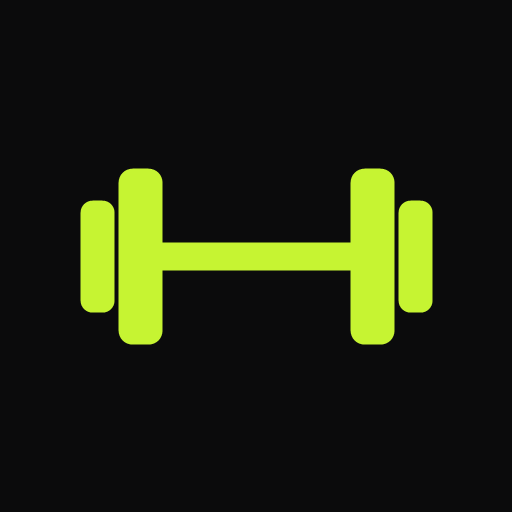
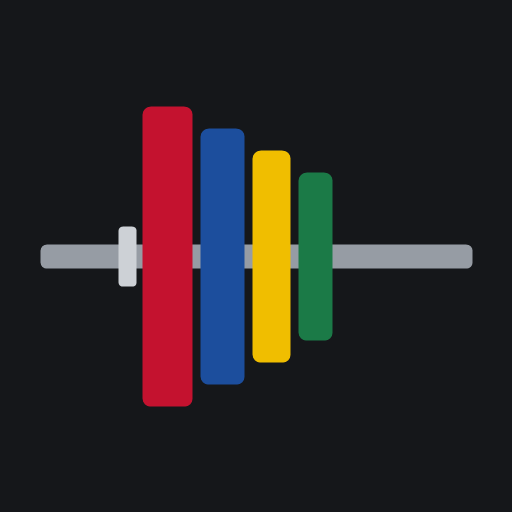
Add files via upload

Changed region(s): [[0.0625, 0.1875, 0.9375, 0.8125]]

diff --git a/index.html b/index.html
@@ -2,78 +2,111 @@
 <html lang="tr"><head><meta charset="utf-8">
 <meta name="viewport" content="width=device-width, initial-scale=1, viewport-fit=cover">
 <title>Antrenman Takip</title>
-<link rel="manifest" href="manifest.webmanifest?v=2">
-<link rel="apple-touch-icon" sizes="180x180" href="apple-touch-icon.png?v=2">
-<link rel="icon" type="image/png" sizes="192x192" href="icon-192.png?v=2">
+<link rel="manifest" href="manifest.webmanifest?v=3">
+<link rel="apple-touch-icon" sizes="180x180" href="apple-touch-icon.png?v=3">
+<link rel="icon" type="image/png" sizes="192x192" href="icon-192.png?v=3">
 <meta name="apple-mobile-web-app-capable" content="yes">
 <meta name="mobile-web-app-capable" content="yes">
 <meta name="apple-mobile-web-app-title" content="Antrenman">
 <meta name="apple-mobile-web-app-status-bar-style" content="default">
-<meta name="theme-color" content="#f4f4f1" media="(prefers-color-scheme: light)">
-<meta name="theme-color" content="#0b0b0c" media="(prefers-color-scheme: dark)">
-<link href="https://fonts.googleapis.com/css2?family=Geist:wght@400;500;600;700&family=Geist+Mono:wght@500;600&display=swap" rel="stylesheet">
+<meta name="theme-color" content="#E9EAEC" media="(prefers-color-scheme: light)">
+<meta name="theme-color" content="#111315" media="(prefers-color-scheme: dark)">
+<link href="https://fonts.googleapis.com/css2?family=Archivo:wdth,wght@62..125,400..900&display=swap" rel="stylesheet">
 <style>
-:root{--bg:#f4f4f1;--fg:#111113;--card:#fff;--soft:#ecece7;--mut:#6e6e75;--bd:#e3e3dd;--acc:#c6f432;--onacc:#111113;--accfg:#4a7a00;box-sizing:border-box;padding-top:env(safe-area-inset-top,0px);padding-bottom:env(safe-area-inset-bottom,0px)}
-@media (prefers-color-scheme:dark){:root:not([data-theme="light"]){--bg:#0b0b0c;--fg:#f2f2ee;--card:#161618;--soft:#1f1f22;--mut:#8d8d94;--bd:#28282c;--acc:#c6f432;--onacc:#0b0b0c;--accfg:#c6f432;color-scheme:dark}}
-:root[data-theme="dark"]{--bg:#0b0b0c;--fg:#f2f2ee;--card:#161618;--soft:#1f1f22;--mut:#8d8d94;--bd:#28282c;--acc:#c6f432;--onacc:#0b0b0c;--accfg:#c6f432;color-scheme:dark}
-*{box-sizing:border-box}html{scroll-padding-top:env(safe-area-inset-top,0px)}
-body{margin:0;background:var(--bg);color:var(--fg);font:14px/1.45 "Geist",system-ui,-apple-system,"Segoe UI",sans-serif;-webkit-font-smoothing:antialiased}
-button{font-family:inherit;-webkit-tap-highlight-color:transparent;touch-action:manipulation}
-#app{max-width:460px;margin:0 auto;padding:14px 16px 28px}
-h1{font-size:24px;font-weight:700;letter-spacing:-.025em;margin:0;line-height:1.15}
-h2{font-size:20px;font-weight:650;letter-spacing:-.02em;margin:10px 0 2px;line-height:1.2}
-.top h2{margin:0}
-.eyebrow{font-size:11px;text-transform:uppercase;letter-spacing:.08em;color:var(--mut);font-weight:600}
-.sec{margin:16px 0 6px}
-.mut{color:var(--mut);margin:2px 0}.lbl{display:block;font-size:12px;color:var(--mut);font-weight:500;margin:12px 0 4px}
-.tabs,.week{display:grid;grid-template-columns:repeat(7,1fr);gap:4px}
-.tab,.wd{background:var(--card);color:var(--fg);border:1px solid var(--bd);border-radius:8px;padding:6px 0;font-size:13px;font-weight:600;cursor:pointer;min-width:0}
-.tab small,.wd small{display:block;font-size:9.5px;color:var(--mut);font-weight:500;overflow:hidden;white-space:nowrap;text-overflow:ellipsis;padding:0 2px}
-.tab.on{background:var(--acc);border-color:var(--acc);color:var(--onacc)}.tab.on small{color:var(--onacc)}
-.wd.today{border-color:var(--accfg);box-shadow:inset 0 0 0 1px var(--accfg)}.wd.off{background:var(--soft);border-color:transparent}
-select,input{width:100%;background:var(--card);color:var(--fg);border:1px solid var(--bd);border-radius:8px;padding:8px 10px;font:inherit;font-size:16px}
-.wsel{width:auto;padding:5px 8px;font-weight:600}
-input:focus-visible,select:focus-visible,button:focus-visible{outline:2px solid var(--accfg);outline-offset:2px}
-.card{background:var(--card);border:1px solid var(--bd);border-radius:12px;padding:2px 12px;margin:10px 0}
-.row{display:flex;justify-content:space-between;gap:10px;align-items:center;padding:7px 0;border-bottom:1px solid var(--bd)}.row:last-child{border:0}
-.row span{color:var(--mut);font-size:12.5px;text-align:right;white-space:nowrap}
-.fc{display:block;font-size:12px;color:var(--mut);margin-top:1px}
-.btn{display:block;width:100%;background:var(--acc);color:var(--onacc);border:0;border-radius:10px;padding:11px;font-size:15px;font-weight:600;margin:8px 0;cursor:pointer}
-.btn.ghost,.ghost{background:var(--card);color:var(--fg);border:1px solid var(--bd)}
-.sm{padding:5px 10px;font-size:13px;border-radius:8px;width:auto;margin:0;font-weight:600;cursor:pointer}
-.top{display:flex;justify-content:space-between;align-items:center;gap:10px}
-.bar{height:4px;background:var(--soft);border-radius:2px;margin:10px 0}.bar i{display:block;height:100%;background:var(--acc);border-radius:2px}
-.note{background:var(--card);border:1px solid var(--bd);border-left:3px solid var(--accfg);padding:7px 10px;font-size:13px;color:var(--mut);border-radius:0 8px 8px 0;margin:8px 0}
-.note b{color:var(--fg)}
-.hero{background:var(--card);border:1px solid var(--bd);border-radius:14px;padding:14px;margin:12px 0}
-.hero h2{font-size:26px;margin:4px 0 2px}
-.stats{display:flex;gap:18px;margin:8px 0 6px}.stats b{display:block;font:600 17px "Geist Mono",ui-monospace,monospace}.stats small{color:var(--mut);font-size:11px}
-.grid2,.two{display:grid;grid-template-columns:1fr 1fr;gap:8px}.two{margin-top:12px}
-.grid2 .btn{margin:0}
-.two label,.g3 label{font-size:12px;color:var(--mut)}
-.two input{font:600 26px "Geist Mono",ui-monospace,monospace;text-align:center;margin-top:4px;padding:8px}
-.rest{text-align:center;padding-top:16px}.big{font:600 88px/1 "Geist Mono",ui-monospace,monospace;letter-spacing:-.04em;color:var(--accfg);margin:4px 0 10px}
-.chk{font-size:13px;color:var(--mut)}input[type=checkbox]{width:auto;margin-right:6px}
-.clk{font-family:"Geist Mono",ui-monospace,monospace;color:var(--fg);font-weight:600}
-.alts{display:flex;flex-wrap:wrap;gap:4px;margin:6px 0 2px}
-.chip{background:var(--soft);color:var(--fg);border:1px solid var(--bd);border-radius:99px;padding:2px 9px;font-size:11.5px;font-weight:500;cursor:pointer;line-height:1.5}
-.chip.on{background:var(--acc);border-color:var(--acc);color:var(--onacc);font-weight:600}
-.btn.sub{padding:9px;font-size:14px}
-.li{display:flex;justify-content:space-between;align-items:center;width:100%;background:none;border:0;border-bottom:1px solid var(--bd);padding:10px 0;font-size:14px;color:var(--fg);text-align:left;cursor:pointer}.li:last-child{border:0}
-.inl{display:flex;gap:8px;align-items:center}.inl .btn{width:auto;margin:0;padding:9px 16px;white-space:nowrap}
-.splash{min-height:calc(100vh - 42px);min-height:calc(100svh - 42px - env(safe-area-inset-top,0px) - env(safe-area-inset-bottom,0px));display:flex;flex-direction:column;justify-content:space-between;touch-action:none;user-select:none;-webkit-user-select:none}
-.sp-mid{text-align:center;padding-top:12vh}.sp-mid svg{width:96px;height:96px;border-radius:22px;box-shadow:0 0 0 1px var(--bd),0 10px 30px rgba(0,0,0,.18)}
-.sp-t{font-size:36px;margin:18px 0 2px}.sp-sub{font-size:15px;margin:14px 0 4px}
-.track{position:relative;height:58px;border-radius:99px;background:var(--card);border:1px solid var(--bd);margin-bottom:10px}
-.tl{position:absolute;inset:0;display:grid;place-items:center;color:var(--mut);font-size:14px;font-weight:500;pointer-events:none;transition:opacity .15s}
-.knob{position:absolute;left:4px;top:4px;width:48px;height:48px;border-radius:50%;border:0;background:var(--acc);color:var(--onacc);font-size:20px;font-weight:700;display:grid;place-items:center;cursor:grab;touch-action:none;transition:transform .25s ease}
-.knob span{display:block;animation:nudge 1.6s ease-in-out infinite}
-.sp-hint{text-align:center;font-size:11px;color:var(--mut);margin:0 0 6px}
-@keyframes nudge{0%,100%{transform:translateX(0)}50%{transform:translateX(5px)}}
-@keyframes enterIn{from{opacity:0;transform:translateY(14px)}to{opacity:1;transform:none}}
-#app.in{animation:enterIn .35s ease}
-@media (prefers-reduced-motion:reduce){.knob span,#app.in{animation:none}}
-.ex{padding:8px 0;border-bottom:1px solid var(--bd)}.g3{display:grid;grid-template-columns:1fr 1fr 1fr;gap:6px;margin:6px 0}
+/* Renkler olimpik ağırlık plakalarından: her antrenman günü bir plaka rengi taşır (Upper kırmızı, Lower mavi, Push sarı, Pull yeşil).
+   Nötrler beton/çelik grisi. Tek font ailesi Archivo: normal genişlik metin, dar genişlik başlık ve sayılar. */
+:root{--bg:#E9EAEC;--sf:#FFFFFF;--ink:#15171A;--mut:#596069;--line:#D3D6DB;--pri:#15171A;--onpri:#FFFFFF;--err:#B00F2A;
+--red:#C4122F;--blue:#1C4E9D;--yel:#F0BE00;--grn:#1B7A47;--rest:#6B727C;
+--f:"Archivo",system-ui,-apple-system,"Segoe UI",sans-serif;
+box-sizing:border-box;padding-top:env(safe-area-inset-top,0px);padding-bottom:env(safe-area-inset-bottom,0px)}
+@media (prefers-color-scheme:dark){:root:not([data-theme="light"]){--bg:#111315;--sf:#1B1E22;--ink:#ECEEF0;--mut:#A3AAB3;--line:#30353B;--pri:#ECEEF0;--onpri:#111315;--err:#FF7A7A;--rest:#4A5058;color-scheme:dark}}
+:root[data-theme="dark"]{--bg:#111315;--sf:#1B1E22;--ink:#ECEEF0;--mut:#A3AAB3;--line:#30353B;--pri:#ECEEF0;--onpri:#111315;--err:#FF7A7A;--rest:#4A5058;color-scheme:dark}
+*{box-sizing:border-box}
+body{margin:0;background:var(--bg);color:var(--ink);font:15px/1.45 var(--f);-webkit-font-smoothing:antialiased;font-variant-numeric:tabular-nums}
+button,input,select{font-family:inherit}
+button{-webkit-tap-highlight-color:transparent;touch-action:manipulation;cursor:pointer}
+#app{max-width:480px;margin:0 auto;padding:10px 16px 36px}
+.p-red{--pc:var(--red);--po:#fff;--pl:rgba(255,255,255,.3)}.p-blue{--pc:var(--blue);--po:#fff;--pl:rgba(255,255,255,.3)}
+.p-yel{--pc:var(--yel);--po:#15171A;--pl:rgba(0,0,0,.16)}.p-grn{--pc:var(--grn);--po:#fff;--pl:rgba(255,255,255,.3)}.p-rest{--pc:var(--rest);--po:#fff;--pl:rgba(255,255,255,.3)}
+.pt,.xt,.wn,.timer,.brand,.sp-w,.kv b,.two input,.clk,.rn{font-stretch:70%;font-weight:800}
+.pt{font-size:42px;line-height:.95;margin:8px 0 14px}
+.xt{font-size:40px;line-height:.95;margin:18px 0 6px}
+.hd{display:flex;justify-content:space-between;align-items:center;gap:12px}
+.date{font-weight:700;font-size:16px}
+.wsel{width:auto;border:0;background:transparent;font-weight:700;font-size:16px;padding:6px 0;color:var(--ink)}
+select,input{width:100%;background:var(--sf);color:var(--ink);border:1.5px solid var(--line);border-radius:6px;padding:10px 12px;font-size:16px}
+input:focus,select:focus{outline:none;border-color:var(--ink)}
+button:focus-visible{outline:2px solid var(--ink);outline-offset:2px}
+.wks{display:grid;grid-template-columns:repeat(12,1fr);gap:3px;margin:8px 0 5px}.wks span{height:6px;background:var(--line);border-radius:1px}.wks .d{background:var(--mut)}.wks .c{background:var(--ink)}
+.wkn{font-size:13px;color:var(--mut);margin:0}
+.lab{display:block;font-size:13px;font-weight:700;color:var(--mut);margin:24px 0 8px}
+.hd.lab{display:flex;margin-bottom:4px}
+.mut{color:var(--mut)}
+.msg{background:var(--ink);color:var(--bg);border-radius:6px;padding:10px 12px;font-size:14px;margin:14px 0 0}
+.plate{background:var(--pc);color:var(--po);border-radius:6px;padding:14px 16px 16px}
+.plate .wn{font-size:64px;line-height:.88;margin:0 0 12px}
+.pl{list-style:none;margin:0;padding:0;font-size:14px}.pl li{display:flex;justify-content:space-between;gap:12px;padding:5px 0;border-top:1px solid var(--pl)}.pl li span:last-child{white-space:nowrap;font-weight:700}
+.pm{margin:10px 0 14px;font-size:14px}
+.pa{display:flex;align-items:center;gap:20px}
+.pbtn{background:var(--po);color:var(--pc);border:0;border-radius:6px;padding:13px 30px;font-weight:800;font-size:16px}
+.lnk{background:none;border:0;padding:8px 0;color:var(--ink);font-weight:700;font-size:15px;text-decoration:underline;text-decoration-thickness:1.5px;text-underline-offset:3px}
+.plate .lnk{color:var(--po)}
+.lnk.back{text-decoration:none}.lnk.danger{color:var(--err)}
+.wk{display:grid;grid-template-columns:repeat(7,1fr);gap:5px}
+.wk button{background:none;border:0;padding:4px 0;text-align:left;color:var(--ink);min-width:0}
+.wk b{font-size:13px;font-weight:700;padding:1px 3px;margin-left:-3px;border-radius:3px}
+.wk .td b{text-decoration:underline;text-decoration-thickness:2px;text-underline-offset:3px}
+.wk .on b{background:var(--ink);color:var(--bg);text-decoration:none}
+.wk i{display:block;height:8px;border-radius:2px;background:var(--pc);margin:5px 0 4px}
+.wk i.off{height:2px;background:var(--line);margin:8px 0 5px}
+.wk small{display:block;font-size:11px;color:var(--mut);overflow:hidden;white-space:nowrap;text-overflow:ellipsis}
+.list{background:var(--sf);border-radius:6px;padding:0 14px}
+.row{display:flex;justify-content:space-between;gap:12px;align-items:center;padding:11px 0;border-bottom:1px solid var(--line)}.row:last-child{border-bottom:0}.row.at{align-items:flex-start}
+.grow{flex:1;min-width:0}
+.v{color:var(--mut);font-size:13px;text-align:right;white-space:nowrap}.v .n{color:var(--ink);font-size:14px}
+.sub{display:block;font-size:13px;color:var(--mut);margin-top:2px}
+.tag{font-size:12px;font-weight:600;color:var(--mut);margin-left:6px}
+.li{display:flex;justify-content:space-between;align-items:center;width:100%;background:none;border:0;border-bottom:1px solid var(--line);padding:13px 0;font-size:15px;color:var(--ink);text-align:left}.li:last-child{border-bottom:0}
+.chev{color:var(--mut);font-size:20px;line-height:1}
+.btn{display:block;width:100%;border:0;border-radius:6px;padding:15px;font-size:16px;font-weight:800;background:var(--pri);color:var(--onpri);margin:10px 0}
+.btn.alt{background:transparent;color:var(--ink);box-shadow:inset 0 0 0 1.5px var(--ink)}
+.two{display:grid;grid-template-columns:1fr 1fr;gap:8px}.two .btn{margin:10px 0 0}
+.two label{font-size:13px;font-weight:600;color:var(--mut)}
+.two input{font-size:36px;text-align:center;margin-top:4px;padding:8px}
+.inl{display:flex;gap:8px}.inl .btn{width:auto;margin:0;padding:0 20px}
+.rh{display:grid;grid-template-columns:1fr auto 1fr;align-items:center;gap:8px}.rh .lnk{justify-self:start}
+.clk{font-size:24px;text-align:center}.rn{font-size:24px;justify-self:end}
+.prog{height:4px;background:var(--line);border-radius:2px;margin:6px 0 4px}.prog i{display:block;height:100%;background:var(--pc);border-radius:2px}
+.focus{margin:0;color:var(--mut);font-size:14px}
+.opt{display:flex;flex-wrap:wrap;gap:0 16px;margin:8px 0 0}
+.opt button{background:none;border:0;padding:5px 0;font-size:13px;font-weight:500;color:var(--mut);display:inline-flex;align-items:center;gap:6px;text-align:left}
+.opt button::before{content:"";width:13px;height:13px;border-radius:50%;box-shadow:inset 0 0 0 1.5px currentColor;flex:none}
+.opt .on{color:var(--ink);font-weight:700}.opt .on::before{box-shadow:inset 0 0 0 4.5px var(--ink)}
+.kv{display:flex;gap:28px;margin:16px 0 4px}.kv small{display:block;font-size:12px;font-weight:600;color:var(--mut)}.kv b{font-size:32px;line-height:1}
+.tip{background:var(--sf);border-radius:6px;padding:10px 12px;font-size:14px;margin:10px 0}
+.timer{font-size:132px;line-height:.9;text-align:center;margin:4px 0 12px}
+.rbar{height:8px;background:var(--line);border-radius:2px;overflow:hidden}.rbar i{display:block;height:100%;background:var(--pc);transition:width .25s linear}
+.nx{text-align:center;margin:14px 0 4px}
+.lead{font-size:18px;margin:0 0 14px}
+.hl{display:flex;align-items:center;gap:8px;color:var(--ink);font-size:15px}
+.sq{width:12px;height:12px;border-radius:2px;background:var(--pc);flex:none}
+.ex{padding:12px 0;border-bottom:1px solid var(--line)}
+.g3{display:grid;grid-template-columns:1fr 1fr 1fr;gap:8px;margin:8px 0}.g3 label{font-size:12px;font-weight:600;color:var(--mut)}
+.exa{display:flex;justify-content:space-between;align-items:center;gap:8px}
+.chk{font-size:14px;display:flex;align-items:center;gap:8px}input[type=checkbox]{width:18px;height:18px;margin:0;accent-color:var(--ink)}
+.splash{min-height:calc(100vh - 46px);min-height:calc(100svh - 46px - env(safe-area-inset-top,0px) - env(safe-area-inset-bottom,0px));display:flex;flex-direction:column;gap:16px;touch-action:none;user-select:none;-webkit-user-select:none}
+.sp-top{display:flex;justify-content:space-between;align-items:baseline;gap:12px;padding-top:6px}
+.brand{font-size:26px}
+.sp-plate{flex:1;display:flex;flex-direction:column;justify-content:flex-end;padding:18px 18px 20px}
+.sp-lab{font-weight:700;font-size:15px}
+.sp-w{font-size:clamp(84px,30vw,140px);line-height:.85;margin:6px 0 12px;overflow-wrap:anywhere}
+.sp-m{font-size:15px;margin:0}
+.track{position:relative;height:60px;border-radius:6px;background:var(--sf);box-shadow:inset 0 0 0 1.5px var(--line)}
+.tl{position:absolute;inset:0;display:grid;place-items:center;padding-left:56px;color:var(--mut);font-weight:700;font-size:15px;pointer-events:none}
+.knob{position:absolute;left:5px;top:5px;width:50px;height:50px;border-radius:4px;border:0;background:var(--ink);color:var(--bg);cursor:grab;touch-action:none;transition:transform .25s ease}
+.knob::before{content:"";position:absolute;left:50%;top:50%;width:2px;height:20px;margin:-10px 0 0 -1px;background:currentColor;box-shadow:-6px 0 currentColor,6px 0 currentColor}
+.sp-hint{text-align:center;font-size:13px;color:var(--mut);margin:10px 0 0}
+@media (prefers-reduced-motion:reduce){.knob,.rbar i{transition:none}}
 </style></head><body><div id="app"></div><input type="file" id="impf" accept=".json,application/json" hidden>
 <script>
 const KEY='ulppl_v1',DAYS=['Pzt','Sal','Çar','Per','Cum','Cmt','Paz'],DAYL=['Pazartesi','Salı','Çarşamba','Perşembe','Cuma','Cumartesi','Pazar'];
@@ -128,7 +161,7 @@ const ALT={'Machine Chest Press':['Smith Machine Bench Press','DB Bench Press'],
 'Seated Leg Curl':['Lying Leg Curl','Nordic Ham Curl'],'Hack Squat':['Smith Machine Squat','Leg Press'],'Leg Extension':['Reverse Nordic','Sissy Squat'],'DB Walking Lunge':['Smith Machine Split Squat','DB Reverse Lunge'],'Standing Calf Raise':['Donkey Calf Raise','Leg Press Calf Press'],'Glute Kickback':['45° Hyperextension','Cable Pull-Through'],
 'Pull-Up (Wide Grip)':['Lat Pulldown (Wide Grip)','1-Arm Cable Pulldown'],'Stiff-Leg Deadlift':['DB RDL','Barbell RDL'],'Close-Grip Lat Pulldown':['Close-Grip Pull-Up','Close-Grip Seated Cable Row'],'Chest-Supported Machine Row':['Smith Machine Row','DB Row'],'1-Arm Reverse Pec Deck':['Lying Reverse DB Flye','Reverse Cable Crossover'],'Preacher Hammer Curl':['DB Preacher Curl','DB Hammer Curl'],'Cable Crunch':['Weighted Crunch','Machine Crunch']};
 const nm=e=>{const p=S.pick&&S.pick[e.n];return p&&ALT[e.n]&&ALT[e.n].includes(p)?p:e.n};
-const chips=e=>ALT[e.n]?`<div class="alts">${[e.n,...ALT[e.n]].map(v=>`<button class="chip ${nm(e)==v?'on':''}" data-a="alt" data-o="${esc(e.n)}" data-v="${esc(v)}">${esc(v)}</button>`).join('')}</div>`:'';
+const chips=e=>ALT[e.n]?`<div class="opt" role="radiogroup" aria-label="Hareket seçimi">${[e.n,...ALT[e.n]].map(v=>`<button role="radio" aria-checked="${nm(e)==v}" class="${nm(e)==v?'on':''}" data-a="alt" data-o="${esc(e.n)}" data-v="${esc(v)}">${esc(v)}</button>`).join('')}</div>`:'';
 const clone=o=>JSON.parse(JSON.stringify(o));
 function mig(s){if(!s.v)['Upper','Push'].forEach(k=>{if(!s.w[k])s.w[k]=clone(DEF[k])});
 if((s.v||0)<3){(s.w.Upper||[]).forEach(e=>{if(e.n=='EZ-Bar Cheat Curl (süperset 1)'){e.n='EZ-Bar Cheat Curl';e.ss=1}if(e.n=='EZ-Bar Skull Crusher (süperset 1)')e.n='EZ-Bar Skull Crusher'});s.week=1;s.v=3}return s}
@@ -158,47 +191,53 @@ const n=6-d,k=rem.length;if(k>n){V.msg='Bu haftanın kalan günlerine sığmıyo
 for(let i=d;i<7;i++)days[i]='';
 rem.forEach((x,i)=>{days[k==1?d+1:d+1+Math.round(i*(n-1)/(k-1))]=x});
 S.plan={wk:monKey(),days};V.msg=`${w} ${DAYL[d+1]} gününe ertelendi, haftanın kalanı yeniden düzenlendi.`}
-const msg=()=>{const m=V.msg;V.msg=null;return m?`<p class="note">${esc(m)}</p>`:''};
+const msg=()=>{const m=V.msg;V.msg=null;return m?`<p class="msg" role="status">${esc(m)}</p>`:''};
 const CARDIO_G=[
 ['Salon makineleri (düşük-orta tempo)',['Eğimli yürüyüş (koşu bandı)','Koşu bandında koşu','Merdiven makinesi (StairMaster)','Sabit bisiklet','Yatık bisiklet (recumbent)','Spin bisikleti','Eliptik','Kürek makinesi','Air bike (Assault bike)','SkiErg']],
 ['HIIT / kondisyon',['Sprint intervalleri','Bisiklette HIIT','Kızak itme (sled push)','Farmer\'s walk','Kettlebell swing','Battle rope','Burpee','İp atlama','Mountain climber','Box jump']],
 ['Açık hava / diğer',['Tempolu yürüyüş','Açık havada koşu','Yokuş / merdiven çıkma','Doğa yürüyüşü (hiking)','Bisiklet (açık hava)','Yüzme']]];
 const CARDIO=CARDIO_G.flatMap(g=>g[1]);
 const csec=c=>c?(c.acc||0)+(c.t0?(Date.now()-c.t0)/1000:0):0;
-const lr=l=>l.cardio?'Kardiyo · '+dur(l.sec):l.s.map(x=>x.kg+'×'+x.r).join('  ');
+const lr=l=>l.cardio?dur(l.sec)+' kardiyo':l.s.map(x=>x.kg+'×'+x.r).join(', ');
 function addLog(x){const r=V.run;r.log.push(x);if(r.done){const h=S.log[r.li];if(h&&h.log!==r.log)h.log.push(x)}}
-const LOGO='<svg viewBox="0 0 512 512" aria-hidden="true"><rect width="512" height="512" fill="#0b0b0c"/><g fill="#c6f432"><rect x="150" y="242" width="212" height="28" rx="10"/><rect x="118" y="168" width="44" height="176" rx="14"/><rect x="350" y="168" width="44" height="176" rx="14"/><rect x="80" y="200" width="34" height="112" rx="12"/><rect x="398" y="200" width="34" height="112" rx="12"/></g></svg>';
+const PLATES={Upper:'red',Lower:'blue',Push:'yel',Pull:'grn'},PL=['red','blue','yel','grn'];
+const pc=w=>!w||!S.w[w]?'rest':PLATES[w]||PL[Math.max(0,Object.keys(S.w).indexOf(w))%4];
+const today8=()=>new Date().toLocaleDateString('tr-TR',{weekday:'long',day:'numeric',month:'long'});
+const wks=()=>`<div class="wks" aria-hidden="true">${[...Array(12)].map((_,i)=>`<span class="${i+1<S.week?'d':i+1==S.week?'c':''}"></span>`).join('')}</div>`;
+const nav=(a,t)=>`<button class="li" data-a="${a}"><span>${t}</span><span class="chev" aria-hidden="true">›</span></button>`;
+const when=h=>{const d=new Date(h.d);return d.toLocaleDateString('tr-TR',{day:'numeric',month:'long'})+', '+d.toLocaleTimeString('tr-TR',{hour:'2-digit',minute:'2-digit'})+(h.wk?`, ${h.wk}. hafta`:'')+(h.part?', yarım kaldı':'')};
+const strip=(sc,td,sel)=>`<div class="wk">${DAYS.map((d,i)=>{const k=sc[i],ok=k&&S.w[k];return`<button class="${i==td?'td':''} ${i==sel?'on':''}" data-a="day" data-i="${i}" aria-label="${DAYL[i]}: ${ok?esc(k):'dinlenme'}"><b>${d}</b><i class="p-${ok?pc(k):'rest'} ${ok?'':'off'}"></i><small>${ok?esc(k):'Dinlenme'}</small></button>`}).join('')}</div>`;
 
-function splash(){const w=eff()[today()],ok=w&&S.w[w];
-return`<div class="splash"><div class="sp-mid">${LOGO}<h1 class="sp-t">Antrenman</h1><p class="mut">${new Date().toLocaleDateString('tr-TR',{weekday:'long',day:'numeric',month:'long'})}</p>
-<p class="sp-sub">${V.run?'<b>Devam eden bir antrenmanın var</b>':ok?`Bugün: <b>${esc(w)}</b> · ${S.w[w].length} hareket`:'Bugün dinlenme günü'}</p><p class="mut" style="font-size:12px">Hafta ${S.week} / 12</p></div>
-<div><p class="sp-hint">Yukarı kaydır ya da düğmeyi sağa sürükle</p><div class="track"><span class="tl">Kaydırarak başla</span><button class="knob" data-a="enter" aria-label="Uygulamaya gir"><span>→</span></button></div></div></div>`}
-function enter(){V.view=V.run?'run':'main';render();app.classList.remove('in');void app.offsetWidth;app.classList.add('in')}
+function splash(){const w=eff()[today()],rw=V.run&&V.run.w,show=rw||(w&&S.w[w]?w:'');
+return`<div class="splash"><div class="sp-top"><span class="brand">Antrenman</span><span class="mut">${today8()}</span></div>
+<div class="plate sp-plate p-${pc(show)}"><div class="sp-lab">${rw?'Yarım kalan antrenman':'Bugün'}</div><div class="sp-w">${show?esc(show):'Dinlenme'}</div><p class="sp-m">${show?`${S.w[show].length} hareket, programın ${S.week}. haftası.`:'Bugün programda antrenman yok.'}</p></div>
+<div><div class="track"><span class="tl">Başlamak için kaydır</span><button class="knob" data-a="enter" aria-label="Uygulamaya gir"></button></div><p class="sp-hint">Ya da ekranı yukarı kaydır.</p></div></div>`}
+function enter(){V.view=V.run?'run':'main';render();window.scrollTo(0,0)}
 
 function main(){const td=today(),sc=eff(),w=sc[td],ex=S.w[w]||[],last=S.log[S.log.length-1];
 const sets=ex.reduce((a,e)=>a+(+e.sets||0),0),min=Math.round(ex.reduce((a,e)=>a+e.sets*(+e.rest+40),0)/60);
-let nxt='';if(!ex.length)for(let k=1;k<7;k++){const j=(td+k)%7,x=j>td?sc[j]:S.sched[j];if(x&&S.w[x]){nxt=DAYL[j]+' · '+x;break}}
-return`<div class="top"><div><div class="eyebrow">${new Date().toLocaleDateString('tr-TR',{weekday:'long',day:'numeric',month:'long'})}</div><h1>Antrenman</h1></div>
-<select id="wk" class="wsel" data-a="week" aria-label="Program haftası">${[...Array(12)].map((_,i)=>`<option value="${i+1}" ${S.week==i+1?'selected':''}>Hafta ${i+1}</option>`).join('')}</select></div>
-<div class="bar"><i style="width:${S.week/12*100}%"></i></div><p class="mut" style="font-size:12px">12 haftalık programın ${S.week}. haftası${S.week%6==1?' · tanıtım haftası':''}</p>
-${msg()}<div class="hero"><div class="top"><span class="eyebrow">Bugün</span>${ex.length?`<button class="ghost sm" data-a="post" data-i="${td}">Ertele →</button>`:''}</div>${ex.length?`<h2>${esc(w)}</h2><div class="stats"><div><b>${ex.length}</b><small>hareket</small></div><div><b>${sets}</b><small>set</small></div><div><b>~${min}</b><small>dakika</small></div></div>
-<div class="grid2" style="margin-top:12px"><button class="btn ghost" data-a="day" data-i="${td}">Detaylar</button><button class="btn" data-a="start" data-i="${td}">Başlat</button></div>`:`<h2>Dinlenme günü</h2><p class="mut">${nxt?'Sıradaki: '+esc(nxt):'Programa henüz gün atanmamış.'}</p>`}</div>
-<div class="top sec"><span class="eyebrow">Bu hafta${planOn()?' · ertelemeyle düzenlendi':''}</span>${planOn()?'<button class="ghost sm" data-a="unplan">Sıfırla</button>':''}</div><div class="week">${DAYS.map((d,i)=>{const k=sc[i],ok=k&&S.w[k];return`<button class="wd ${i==td?'today':''} ${ok?'':'off'}" data-a="day" data-i="${i}">${d}<small>${ok?esc(k):'—'}</small></button>`}).join('')}</div>
-${last?`<div class="eyebrow sec">Son antrenman</div><div class="card"><div class="row"><div><b>${esc(last.w)}</b><small class="fc">${new Date(last.d).toLocaleString('tr-TR',{day:'numeric',month:'short',hour:'2-digit',minute:'2-digit'})} · Hafta ${last.wk||'?'}${last.part?' · yarım kaldı':''}</small></div><span>${last.dur?dur(last.dur)+' · ':''}${last.log.reduce((a,l)=>a+l.s.length,0)} set</span></div></div>`:''}
-<div class="grid2" style="margin-top:16px"><button class="btn ghost" data-a="hist">Geçmiş</button><button class="btn ghost" data-a="edit">Program</button></div>
-<div class="grid2" style="margin-top:8px"><button class="ghost sm" style="width:100%" data-a="exp">Yedekle</button><button class="ghost sm" style="width:100%" data-a="imp">Geri yükle</button></div>`}
+let nxt='';if(!ex.length)for(let k=1;k<7;k++){const j=(td+k)%7,x=j>td?sc[j]:S.sched[j];if(x&&S.w[x]){nxt=x+', '+DAYL[j];break}}
+return`<div class="hd"><span class="date">${today8()}</span><select id="wk" class="wsel" data-a="week" aria-label="Program haftası">${[...Array(12)].map((_,i)=>`<option value="${i+1}" ${S.week==i+1?'selected':''}>Hafta ${i+1}</option>`).join('')}</select></div>
+${wks()}<p class="wkn">12 haftalık programın ${S.week}. haftası${S.week%6==1?', tanıtım haftası':''}.</p>${msg()}
+<div class="hd lab"><span>Bugün</span>${ex.length?`<button class="lnk" data-a="post" data-i="${td}">Ertele</button>`:''}</div>
+${ex.length?`<div class="plate p-${pc(w)}"><div class="wn">${esc(w)}</div><ul class="pl">${ex.map(e=>`<li><span>${esc(nm(e))}</span><span>${e.sets}×${esc(e.reps)}</span></li>`).join('')}</ul><p class="pm">${sets} set, yaklaşık ${min} dakika.</p><div class="pa"><button class="pbtn" data-a="start" data-i="${td}">Başla</button><button class="lnk" data-a="day" data-i="${td}">Ayrıntılar</button></div></div>`
+:`<div class="plate p-rest"><div class="wn">Dinlenme</div><p class="pm" style="margin-bottom:0">${nxt?'Sıradaki antrenman: '+esc(nxt)+'.':'Programa henüz gün atanmamış.'}</p></div>`}
+<div class="hd lab"><span>Bu hafta${planOn()?', ertelemeyle düzenlendi':''}</span>${planOn()?'<button class="lnk" data-a="unplan">Sıfırla</button>':''}</div>${strip(sc,td,-1)}
+${last?`<div class="lab">Son antrenman</div><div class="list"><div class="row"><div class="grow"><b>${esc(last.w)}</b><span class="sub">${when(last)}</span></div><span class="v">${last.dur?dur(last.dur):''}</span></div></div>`:''}
+<div class="list" style="margin-top:24px">${nav('hist','Geçmiş')}${nav('edit','Programı düzenle')}${nav('exp','Yedekle')}${nav('imp','Yedeği geri yükle')}</div>`}
 
 async function exportData(){const name='antrenman-yedek-'+new Date().toISOString().slice(0,10)+'.json',blob=new Blob([JSON.stringify(S)],{type:'application/json'});
 try{const f=new File([blob],name,{type:'application/json'});if(navigator.canShare&&navigator.canShare({files:[f]})){await navigator.share({files:[f],title:'Antrenman yedeği'});return}}catch(e){if(e&&e.name=='AbortError')return}
 const a=document.createElement('a');a.href=URL.createObjectURL(blob);a.download=name;document.body.appendChild(a);a.click();setTimeout(()=>{URL.revokeObjectURL(a.href);a.remove()},1000)}
 
 function day(){const sc=eff(),w=sc[V.day],ex=S.w[w]||[],canPost=V.day>=today()&&V.day<6;
-return`<div class="top"><button class="ghost sm" data-a="home">← Ana ekran</button><span class="mut">Hafta ${S.week}</span></div><h2 style="margin:14px 0 10px">${DAYL[V.day]}</h2>${msg()}<div class="tabs">${DAYS.map((d,i)=>`<button class="tab ${i==V.day?'on':''}" data-a="day" data-i="${i}">${d}<small>${sc[i]&&S.w[sc[i]]?esc(sc[i]):'—'}</small></button>`).join('')}</div>
-<label class="lbl" for="sel">Bu günün antrenmanı</label>
+return`<div class="hd"><button class="lnk back" data-a="home">‹ Ana ekran</button><span class="mut">${S.week}. hafta</span></div><h1 class="pt">${DAYL[V.day]}</h1>${strip(sc,today(),V.day)}${msg()}
+<label class="lab" for="sel">Bu günün antrenmanı</label>
 <select id="sel" data-a="sched"><option value="">Dinlenme</option>${Object.keys(S.w).map(k=>`<option value="${esc(k)}" ${k==w?'selected':''}>${esc(k)}</option>`).join('')}</select>
-${w&&ex.length?`<div class="card">${ex.map((e,i)=>{const t=techOf(w,i,e);return`<div class="row" style="align-items:flex-start"><div><b>${esc(nm(e))}${e.ss?' <small class="mut">süperset</small>':''}</b>${FOCUS[e.n]?`<small class="fc">${esc(FOCUS[e.n])}</small>`:''}${chips(e)}</div><span>${e.sets}×${esc(e.reps)} · ${fmt(e.rest)}${t?'<br>'+esc(LBL[t][0]):''}</span></div>`}).join('')}</div>${canPost?`<div class="grid2"><button class="btn ghost" data-a="post" data-i="${V.day}">Ertele →</button><button class="btn" data-a="start">Başlat</button></div>`:'<button class="btn" data-a="start">Antrenmanı başlat</button>'}`:'<p class="mut" style="margin-top:12px">Bu gün dinlenme günü.</p>'}`}
+${w&&ex.length?`<div class="list" style="margin-top:12px">${ex.map((e,i)=>{const t=techOf(w,i,e);return`<div class="row at"><div class="grow"><b>${esc(nm(e))}</b>${e.ss?'<span class="tag">süperset</span>':''}${FOCUS[e.n]?`<span class="sub">${esc(FOCUS[e.n])}</span>`:''}${chips(e)}</div><div class="v"><b class="n">${e.sets}×${esc(e.reps)}</b><span class="sub">${fmt(e.rest)} dinlenme</span>${t?`<span class="sub">${esc(LBL[t][0])}</span>`:''}</div></div>`}).join('')}</div>
+<div class="${canPost?'two':''}"><button class="btn" data-a="start">Başla</button>${canPost?`<button class="btn alt" data-a="post" data-i="${V.day}">Ertele</button>`:''}</div>`:'<p class="mut" style="margin-top:14px">Bu gün dinlenme günü.</p>'}`}
 
-function hist(){return`<div class="top"><button class="ghost sm" data-a="home">← Geri</button><h2>Geçmiş</h2></div>`+(S.log.length?S.log.map((h,i)=>`<div class="card"><div class="row"><b>${esc(h.w)} · Hafta ${h.wk||'?'}</b><span>${new Date(h.d).toLocaleString('tr-TR',{day:'numeric',month:'short',hour:'2-digit',minute:'2-digit'})}${h.dur?' · '+dur(h.dur):''}${h.part?' · yarım kaldı':''}</span></div>${h.log.map(l=>`<div class="row"><span style="text-align:left;white-space:normal">${esc(l.n)}</span><span>${lr(l)}</span></div>`).join('')}<div class="row"><button class="ghost sm" data-a="delh" data-i="${i}">Kaydı sil</button></div></div>`).reverse().join(''):'<p class="mut" style="margin-top:12px">Henüz kayıtlı antrenman yok.</p>')}
+function hist(){return`<div class="hd"><button class="lnk back" data-a="home">‹ Ana ekran</button></div><h1 class="pt">Geçmiş</h1>`+(S.log.length?S.log.map((h,i)=>`<div class="lab hl p-${pc(h.w)}"><span class="sq"></span>${esc(h.w)}</div><div class="list"><div class="row"><span class="mut" style="font-size:13px">${when(h)}</span><span class="v">${h.dur?dur(h.dur):''}</span></div>${h.log.map(l=>`<div class="row at"><span>${esc(l.n)}</span><span class="v">${lr(l)}</span></div>`).join('')}<div class="row"><button class="lnk danger" data-a="delh" data-i="${i}">Kaydı sil</button></div></div>`).reverse().join(''):'<p class="mut">Henüz kayıtlı antrenman yok.</p>')}
 
 function nextPos(r){const ex=S.w[r.w],e=ex[r.ei];
 if(e.ss&&ex[r.ei+1])return{ei:r.ei+1,si:r.si,free:1};
@@ -207,35 +246,37 @@ else if(r.si+1<e.sets)return{ei:r.ei,si:r.si+1};
 return r.ei+1<ex.length?{ei:r.ei+1,si:0}:null}
 function nextOf(r){const n=r.nx;return`${nm(S.w[r.w][n.ei])}, set ${n.si+1}`}
 
-function pickV(){const mine=(S.cxl||[]).filter(c=>!CARDIO.includes(c)),li=c=>`<button class="li" data-a="cpick" data-v="${esc(c)}"><span>${esc(c)}</span><span class="mut">›</span></button>`;
-return`<div class="top"><button class="ghost sm" data-a="ccancel">← Geri</button><h2>Kardiyo ekle</h2></div>${mine.length?`<div class="eyebrow sec">Senin eklediklerin</div><div class="card">${mine.map(li).join('')}</div>`:''}${CARDIO_G.map(g=>`<div class="eyebrow sec">${esc(g[0])}</div><div class="card">${g[1].map(li).join('')}</div>`).join('')}
-<label class="lbl" for="cc">Listede yoksa kendin yaz (listeye kaydedilir)</label><div class="inl"><input id="cc" placeholder="Örn. Yüzme"><button class="btn" data-a="ccustom">Ekle</button></div>`}
+function pickV(){const mine=(S.cxl||[]).filter(c=>!CARDIO.includes(c)),li=c=>`<button class="li" data-a="cpick" data-v="${esc(c)}"><span>${esc(c)}</span><span class="chev" aria-hidden="true">›</span></button>`;
+return`<div class="hd"><button class="lnk back" data-a="ccancel">‹ Geri</button></div><h1 class="pt">Kardiyo ekle</h1>${mine.length?`<div class="lab">Senin eklediklerin</div><div class="list">${mine.map(li).join('')}</div>`:''}${CARDIO_G.map(g=>`<div class="lab">${esc(g[0])}</div><div class="list">${g[1].map(li).join('')}</div>`).join('')}
+<label class="lab" for="cc">Listede yoksa kendin yaz</label><div class="inl"><input id="cc" placeholder="Örneğin yüzme"><button class="btn" data-a="ccustom">Ekle</button></div><p class="mut" style="font-size:13px">Yazdığın seçenek bir dahaki sefere listede olur.</p>`}
 function cardioV(r){const c=r.cx,on=!!c.t0;
-return`<div class="top"><button class="ghost sm" data-a="ccancel">Vazgeç</button><span class="mut">${r.t0&&!r.done?`<b id="el" class="clk">${fmtE(elapsed(r))}</b> · `:''}Kardiyo</span></div><h2>${esc(c.n)}</h2>
-<div class="rest" style="padding-top:8px"><span class="eyebrow">Kardiyo kronometresi</span><div id="cx" class="big">${fmtE(csec(c))}</div>
-<div class="grid2"><button class="btn ${on?'ghost':''}" data-a="${on?'cpause':'cstart'}">${on?'Duraklat':c.acc?'Devam et':'Başlat'}</button><button class="btn ghost" data-a="csave">Bitir ve kaydet</button></div></div>
-<div class="eyebrow sec">Ya da süreyi elle gir</div><div class="inl"><input id="cm" type="number" inputmode="decimal" min="1" placeholder="Dakika"><button class="btn ghost" data-a="cman">Kaydet</button></div>`}
+return`<div class="rh"><button class="lnk" data-a="ccancel">Vazgeç</button><span class="clk">${r.t0&&!r.done?`<span id="el">${fmtE(elapsed(r))}</span>`:''}</span><span class="rn">Kardiyo</span></div>
+<h1 class="xt">${esc(c.n)}</h1><div class="timer" id="cx">${fmtE(csec(c))}</div>
+<div class="two"><button class="btn ${on?'alt':''}" data-a="${on?'cpause':'cstart'}">${on?'Duraklat':c.acc?'Devam et':'Başlat'}</button><button class="btn alt" data-a="csave">Bitir ve kaydet</button></div>
+<label class="lab" for="cm">Ya da süreyi elle gir (dakika)</label><div class="inl"><input id="cm" type="number" inputmode="decimal" min="1" placeholder="Örneğin 20"><button class="btn alt" data-a="cman">Kaydet</button></div>`}
 
-function run(){const r=V.run,ex=S.w[r.w],e=ex[r.ei];
+function run(){const r=V.run,ex=S.w[r.w],e=ex[r.ei],p='p-'+pc(r.w);
 if(r.mode=='pick')return pickV();
 if(r.mode=='cardio'&&r.cx)return cardioV(r);
-if(r.done)return`<h1 style="margin-top:6px">Antrenman bitti</h1>${r.dur?`<div class="stats"><div><b>${dur(r.dur)}</b><small>toplam süre</small></div><div><b>${r.log.reduce((a,l)=>a+l.s.length,0)}</b><small>set</small></div></div>`:''}<div class="card">${r.log.map(l=>`<div class="row"><b>${esc(l.n)}</b><span>${lr(l)}</span></div>`).join('')}</div><button class="btn ghost sub" data-a="pick">+ Kardiyo / ek hareket</button><button class="btn" data-a="home">Ana ekrana dön</button>`;
-const head=`<div class="top"><button class="ghost sm" data-a="quit">Bitir</button><span class="mut">${r.t0?`<b id="el" class="clk">${fmtE(elapsed(r))}</b> · `:''}Hafta ${S.week} · Hareket ${r.ei+1}/${ex.length}</span></div><div class="bar"><i style="width:${r.ei/ex.length*100}%"></i></div>`;
-if(r.phase=='rest')return head+`<div class="rest"><span class="eyebrow">Dinlenme</span><div id="t" class="big">${fmt(Math.ceil((r.end-Date.now())/1000))}</div><p class="mut">Sıradaki: <b style="color:var(--fg)">${esc(nextOf(r))}</b></p><div class="two"><button class="btn ghost" data-a="add" data-v="-15">−15 sn</button><button class="btn ghost" data-a="add" data-v="15">+15 sn</button></div><button class="btn" data-a="skip">Dinlenmeyi geç</button><button class="btn ghost sub" data-a="pick">+ Kardiyo / ek hareket</button></div>`;
+if(r.done){const n=r.log.reduce((a,l)=>a+l.s.length,0);return`<h1 class="pt" style="margin-top:14px">Antrenman bitti</h1><p class="lead">${r.dur?dur(r.dur)+', ':''}${n} set.</p><div class="list">${r.log.map(l=>`<div class="row at"><b>${esc(l.n)}</b><span class="v">${lr(l)}</span></div>`).join('')}</div><button class="btn alt" data-a="pick">Kardiyo ekle</button><button class="btn" data-a="home">Ana ekrana dön</button>`}
+const head=`<div class="rh"><button class="lnk" data-a="quit">Bitir</button><span class="clk">${r.t0?`<span id="el">${fmtE(elapsed(r))}</span>`:''}</span><span class="rn">${r.ei+1}/${ex.length}</span></div><div class="prog ${p}"><i style="width:${r.ei/ex.length*100}%"></i></div>`;
+if(r.phase=='rest'){const rem=Math.ceil((r.end-Date.now())/1000);return head+`<div class="lab">Dinlenme</div><div class="timer" id="t">${fmt(rem)}</div><div class="rbar ${p}"><i id="tb" style="width:${r.rt?Math.max(0,Math.min(100,rem/r.rt*100)):0}%"></i></div><p class="nx">Sıradaki: <b>${esc(nextOf(r))}</b></p><div class="two"><button class="btn alt" data-a="add" data-v="-15">−15 sn</button><button class="btn alt" data-a="add" data-v="15">+15 sn</button></div><button class="btn" data-a="skip">Dinlenmeyi geç</button><button class="lnk" data-a="pick">Kardiyo ekle</button>`}
 const cn=nm(e),lw=S.last[cn]||{},rr=rirOf(r.w,r.ei,e),tq=r.si==e.sets-1?techOf(r.w,r.ei,e):'';
-return head+`<h2>${esc(cn)}</h2>${FOCUS[e.n]?`<p class="mut">Odak: <b style="color:var(--fg)">${esc(FOCUS[e.n])}</b></p>`:''}${chips(e)}<p class="mut">Set ${r.si+1}/${e.sets} · hedef ${esc(e.reps)} tekrar${rr&&rr[r.si]!=null?' · RIR '+rr[r.si]:''}</p>${e.note&&cn==e.n?`<p class="note">${esc(e.note)}</p>`:''}${tq?`<p class="note"><b>Son set tekniği: ${LBL[tq][0]}</b><br>${LBL[tq][1]}</p>`:''}${e.ss?'<p class="note">Süperset: seti bitirince dinlenmeden sıradaki harekete geç.</p>':''}
-<div class="two"><label>Ağırlık (kg)<input id="kg" type="number" inputmode="decimal" step="0.5" value="${r.dkg??lw.kg??''}"></label><label>Tekrar<input id="rp" type="number" inputmode="numeric" value="${r.drp??''}"></label></div><button class="btn" data-a="ok">Seti onayla</button><button class="btn ghost sub" data-a="pick">+ Kardiyo / ek hareket</button>`}
+return head+`<h1 class="xt">${esc(cn)}</h1>${FOCUS[e.n]?`<p class="focus">Odak: ${esc(FOCUS[e.n])}</p>`:''}${chips(e)}
+<div class="kv"><div><small>Set</small><b>${r.si+1}/${e.sets}</b></div><div><small>Hedef tekrar</small><b>${esc(e.reps)}</b></div>${rr&&rr[r.si]!=null?`<div><small>RIR</small><b>${rr[r.si]}</b></div>`:''}</div>
+${e.note&&cn==e.n?`<p class="tip">${esc(e.note)}</p>`:''}${tq?`<p class="tip"><b>Son set tekniği: ${LBL[tq][0]}.</b> ${LBL[tq][1]}</p>`:''}${e.ss?'<p class="tip">Süperset: bu seti bitirince dinlenmeden sıradaki harekete geç.</p>':''}
+<div class="two"><label>Ağırlık (kg)<input id="kg" type="number" inputmode="decimal" step="0.5" value="${r.dkg??lw.kg??''}"></label><label>Tekrar<input id="rp" type="number" inputmode="numeric" value="${r.drp??''}"></label></div><button class="btn" data-a="ok">Seti kaydet</button><button class="lnk" data-a="pick">Kardiyo ekle</button>`}
 
 function edit(){const at=(k,w,i)=>`data-w="${esc(w)}" data-i="${i}" data-k="${k}"`;
-return`<div class="top"><button class="ghost sm" data-a="home">← Geri</button><h2>Program</h2></div>`+Object.keys(S.w).map(k=>`<div class="card"><div class="row"><input data-k="wn" data-w="${esc(k)}" value="${esc(k)}" aria-label="Antrenman adı"><button class="ghost sm" data-a="delw" data-w="${esc(k)}">Sil</button></div>
-${S.w[k].map((e,i)=>`<div class="ex"><input ${at('n',k,i)} value="${esc(e.n)}" aria-label="Hareket adı"><div class="g3"><label>Set<input type="number" ${at('sets',k,i)} value="${e.sets}"></label><label>Tekrar<input ${at('reps',k,i)} value="${esc(e.reps)}"></label><label>Dinlenme (sn)<input type="number" ${at('rest',k,i)} value="${e.rest}"></label></div><label class="chk"><input type="checkbox" ${at('ss',k,i)} ${e.ss?'checked':''}> Sonraki hareketle süperset</label> <button class="ghost sm" data-a="delx" data-w="${esc(k)}" data-i="${i}">Hareketi sil</button></div>`).join('')}
-<div class="row"><button class="ghost sm" data-a="addx" data-w="${esc(k)}">+ Hareket ekle</button></div></div>`).join('')+`<button class="btn ghost" data-a="addw">+ Yeni antrenman</button>`}
+return`<div class="hd"><button class="lnk back" data-a="home">‹ Ana ekran</button></div><h1 class="pt">Program</h1>`+Object.keys(S.w).map(k=>`<div class="list" style="margin-bottom:16px"><div class="row p-${pc(k)}"><span class="sq"></span><input data-k="wn" data-w="${esc(k)}" value="${esc(k)}" aria-label="Antrenman adı" style="font-weight:700"><button class="lnk danger" data-a="delw" data-w="${esc(k)}">Sil</button></div>
+${S.w[k].map((e,i)=>`<div class="ex"><input ${at('n',k,i)} value="${esc(e.n)}" aria-label="Hareket adı"><div class="g3"><label>Set<input type="number" ${at('sets',k,i)} value="${e.sets}"></label><label>Tekrar<input ${at('reps',k,i)} value="${esc(e.reps)}"></label><label>Dinlenme (sn)<input type="number" ${at('rest',k,i)} value="${e.rest}"></label></div><div class="exa"><label class="chk"><input type="checkbox" ${at('ss',k,i)} ${e.ss?'checked':''}>Sonraki hareketle süperset</label><button class="lnk danger" data-a="delx" data-w="${esc(k)}" data-i="${i}">Hareketi sil</button></div></div>`).join('')}
+<div class="row"><button class="lnk" data-a="addx" data-w="${esc(k)}">Hareket ekle</button></div></div>`).join('')+`<button class="btn alt" data-a="addw">Yeni antrenman ekle</button>`}
 
 function render(){app.innerHTML=V.view=='splash'?splash():V.view=='run'?run():V.view=='edit'?edit():V.view=='hist'?hist():V.view=='day'?day():main()}
 
 function beep(){try{actx=actx||new (window.AudioContext||window.webkitAudioContext)();const o=actx.createOscillator(),g=actx.createGain();o.connect(g);g.connect(actx.destination);o.frequency.value=880;g.gain.value=.2;o.start();o.stop(actx.currentTime+.4)}catch(e){}try{navigator.vibrate&&navigator.vibrate([200,100,200])}catch(e){}}
 function advance(){const r=V.run;r.ei=r.nx.ei;r.si=r.nx.si;r.phase='set';beep();save();render()}
-setInterval(()=>{const r=V.run;if(V.view!='run'||!r)return;if(r.cx){const c=document.getElementById('cx');if(c)c.textContent=fmtE(csec(r.cx))}if(r.done)return;const el=document.getElementById('el');if(el)el.textContent=fmtE(elapsed(r));if(r.phase!='rest'||r.mode)return;const rem=Math.ceil((r.end-Date.now())/1000);if(rem<=0)advance();else{const t=document.getElementById('t');if(t)t.textContent=fmt(rem)}},250);
+setInterval(()=>{const r=V.run;if(V.view!='run'||!r)return;if(r.cx){const c=document.getElementById('cx');if(c)c.textContent=fmtE(csec(r.cx))}if(r.done)return;const el=document.getElementById('el');if(el)el.textContent=fmtE(elapsed(r));if(r.phase!='rest'||r.mode)return;const rem=Math.ceil((r.end-Date.now())/1000);if(rem<=0)advance();else{const t=document.getElementById('t');if(t)t.textContent=fmt(rem);const tb=document.getElementById('tb');if(tb&&r.rt)tb.style.width=Math.max(0,Math.min(100,rem/r.rt*100))+'%'}},250);
 
 app.addEventListener('click',ev=>{const b=ev.target.closest('[data-a]');if(!b||b.tagName=='SELECT')return;const a=b.dataset.a,d=b.dataset,r=V.run;
 if(a=='enter'){if(ev.detail===0)enter();return}
@@ -263,12 +304,12 @@ else if(a=='ok'){const kg=document.getElementById('kg').value,rp=document.getEle
  const nx=nextPos(r);
  if(!nx){r.done=true;r.dur=Math.round(elapsed(r));S.log.push({d:new Date().toISOString(),w:r.w,wk:S.week,dur:r.dur,log:r.log});r.li=S.log.length-1}
  else if(nx.free){r.ei=nx.ei;r.si=nx.si}
- else{r.nx=nx;r.phase='rest';r.end=Date.now()+e.rest*1000}
+ else{r.nx=nx;r.phase='rest';r.rt=+e.rest;r.end=Date.now()+e.rest*1000}
  save()}
 else if(a=='alt'){S.pick=S.pick||{};if(d.v==d.o)delete S.pick[d.o];else S.pick[d.o]=d.v;if(r&&!r.done&&r.phase=='set')delete r.dkg}
 else if(a=='exp'){exportData();return}
 else if(a=='imp'){document.getElementById('impf').click();return}
-else if(a=='add'){r.end+=+d.v*1000}
+else if(a=='add'){r.end+=+d.v*1000;r.rt=Math.max(1,(r.rt||0)+ +d.v)}
 else if(a=='skip'){advance();return}
 else if(a=='addx'){S.w[d.w].push(X('Yeni hareket',3,'8-10',90,[],''));save()}
 else if(a=='delx'){S.w[d.w].splice(+d.i,1);save()}

diff --git a/sw.js b/sw.js
@@ -1,6 +1,6 @@
 // Uygulamayı çevrimdışı çalıştırır. Önce önbellekten açar, arka planda yeni sürümü indirir
 // (güncellemeler bir sonraki açılışta görünür). Dosyaları değiştirince C'deki sürümü artır.
-const C='antrenman-v5';
+const C='antrenman-v6';
 const CORE=['./','./index.html','./manifest.webmanifest','./icon-192.png','./icon-512.png','./apple-touch-icon.png'];
 self.addEventListener('install',e=>{e.waitUntil(caches.open(C).then(c=>c.addAll(CORE)));self.skipWaiting()});
 self.addEventListener('activate',e=>{e.waitUntil(caches.keys().then(ks=>Promise.all(ks.filter(k=>k!==C).map(k=>caches.delete(k)))).then(()=>self.clients.claim()))});
